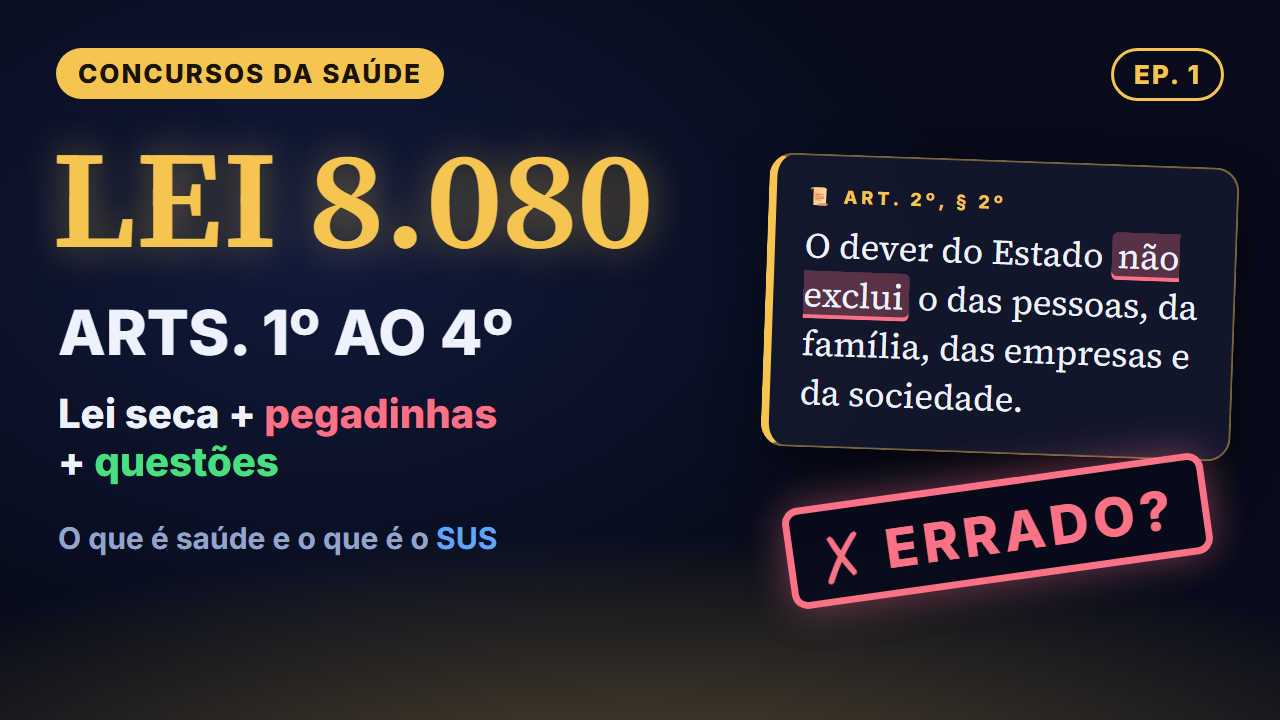
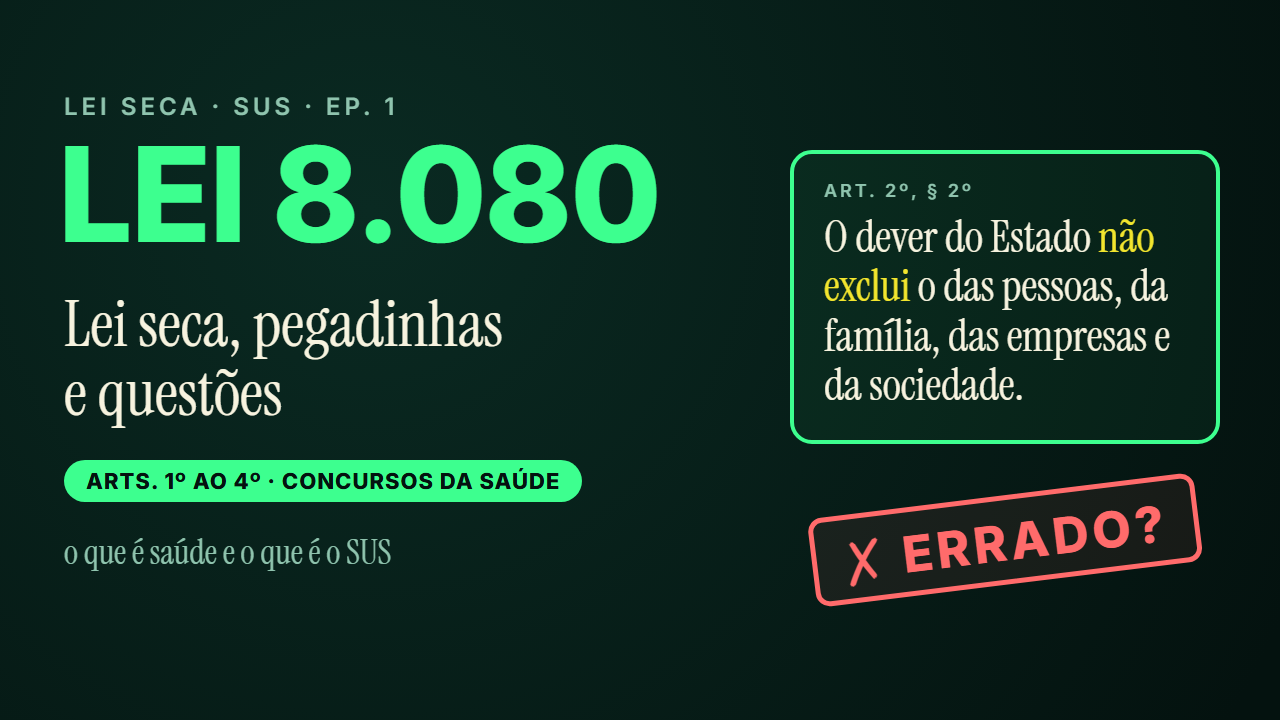
Capa do Ep. 01 da Lei 8.080 no estilo verde da RDC

diff --git a/mecanismo/src/lei8080Verde/Capa.tsx b/mecanismo/src/lei8080Verde/Capa.tsx
@@ -1,0 +1,153 @@
+import React from "react";
+import { AbsoluteFill, staticFile } from "remotion";
+import { loadFont } from "@remotion/fonts";
+import { SANS } from "../fonts";
+
+// Capa horizontal do YouTube (1280×720) do Ep. 1 da Lei 8.080, no estilo verde da RDC 1.000.
+for (const sub of ["latin", "latin-ext"] as const)
+  loadFont({
+    family: "Instrument Serif",
+    url: staticFile(`fonts/InstrumentSerif-400-normal-${sub}.woff2`),
+    weight: "400",
+    format: "woff2",
+    unicodeRange: sub === "latin-ext" ? "U+0100-024F" : undefined,
+  });
+const SERIF = "'Instrument Serif', serif";
+const NEON = "#3dff8f";
+const YEL = "#f2e52e";
+const MINT = "#8fc4ae";
+const INK = "#f7f3df";
+const BG0 = "#04120f";
+const BG1 = "#0a2a22";
+const VERM = "#ff6b6b";
+
+export const CapaLei8080Ep1Verde: React.FC = () => (
+  <AbsoluteFill
+    style={{
+      background: `radial-gradient(circle 1000px at 370px 210px, ${BG1} 0%, ${BG0} 100%)`,
+      fontFamily: SANS,
+    }}
+  >
+    <div
+      style={{
+        position: "absolute",
+        left: 64,
+        top: 92,
+        fontWeight: 600,
+        fontSize: 24,
+        letterSpacing: 4,
+        color: MINT,
+      }}
+    >
+      LEI SECA · SUS · EP. 1
+    </div>
+    <div
+      style={{
+        position: "absolute",
+        left: 58,
+        top: 128,
+        fontWeight: 800,
+        fontSize: 132,
+        lineHeight: 1,
+        color: NEON,
+        letterSpacing: -2,
+      }}
+    >
+      LEI 8.080
+    </div>
+    <div
+      style={{
+        position: "absolute",
+        left: 64,
+        top: 290,
+        fontFamily: SERIF,
+        fontSize: 64,
+        lineHeight: 1.08,
+        color: INK,
+      }}
+    >
+      Lei seca, pegadinhas
+      <br />e questões
+    </div>
+    <div
+      style={{
+        position: "absolute",
+        left: 64,
+        top: 460,
+        padding: "8px 22px",
+        borderRadius: 999,
+        background: NEON,
+        color: BG0,
+        fontWeight: 800,
+        fontSize: 22,
+        letterSpacing: 1,
+      }}
+    >
+      ARTS. 1º AO 4º · CONCURSOS DA SAÚDE
+    </div>
+    <div
+      style={{
+        position: "absolute",
+        left: 64,
+        top: 530,
+        fontFamily: SERIF,
+        fontSize: 34,
+        color: MINT,
+      }}
+    >
+      o que é saúde e o que é o SUS
+    </div>
+
+    {/* trecho da lei com a pegadinha */}
+    <div
+      style={{
+        position: "absolute",
+        left: 790,
+        top: 150,
+        width: 430,
+        boxSizing: "border-box",
+        padding: "26px 30px 30px",
+        borderRadius: 22,
+        border: `4px solid ${NEON}`,
+        background: "rgba(61,255,143,0.05)",
+      }}
+    >
+      <div
+        style={{
+          fontWeight: 600,
+          fontSize: 18,
+          letterSpacing: 3,
+          color: MINT,
+          marginBottom: 12,
+        }}
+      >
+        ART. 2º, § 2º
+      </div>
+      <div
+        style={{ fontFamily: SERIF, fontSize: 44, lineHeight: 1.12, color: INK }}
+      >
+        O dever do Estado <span style={{ color: YEL }}>não exclui</span> o das
+        pessoas, da família, das empresas e da sociedade.
+      </div>
+    </div>
+    <div
+      style={{
+        position: "absolute",
+        left: 1005,
+        top: 540,
+        transform: "translate(-50%,-50%) rotate(-7deg)",
+        padding: "6px 26px",
+        border: `5px solid ${VERM}`,
+        borderRadius: 14,
+        color: VERM,
+        fontWeight: 900,
+        fontSize: 50,
+        letterSpacing: 4,
+        background: "rgba(255,107,107,0.08)",
+        whiteSpace: "nowrap",
+      }}
+    >
+      ✗ ERRADO?
+    </div>
+  </AbsoluteFill>
+);

diff --git a/mecanismo/src/Root.tsx b/mecanismo/src/Root.tsx
@@ -1,5 +1,6 @@
 import React from "react";
 import { VideoLei8080 as VideoLei8080Verde, DURATION as DURATION_LEI8080V } from "./lei8080Verde/Video";
+import { CapaLei8080Ep1Verde } from "./lei8080Verde/Capa";
 import { VideoRosuvastatina, CapaRosuvastatina, DURATION_ROSUVA } from "./rosuvastatina/Video";
 import { VideoGravidezPixel, DURATION_GRAVIDEZ_PIXEL } from "./gravidezPixel/Video";
 import { Composition } from "remotion";
@@ -1422,6 +1423,14 @@ export const RemotionRoot: React.FC = () => (
       fps={FPS}
       width={1920}
       height={1080}
+    />
+    <Composition
+      id="Lei8080Ep1VerdeCapa"
+      component={CapaLei8080Ep1Verde}
+      durationInFrames={1}
+      fps={FPS}
+      width={1280}
+      height={720}
     />
     <Composition
       id="Lei8080Ep1Capa"
